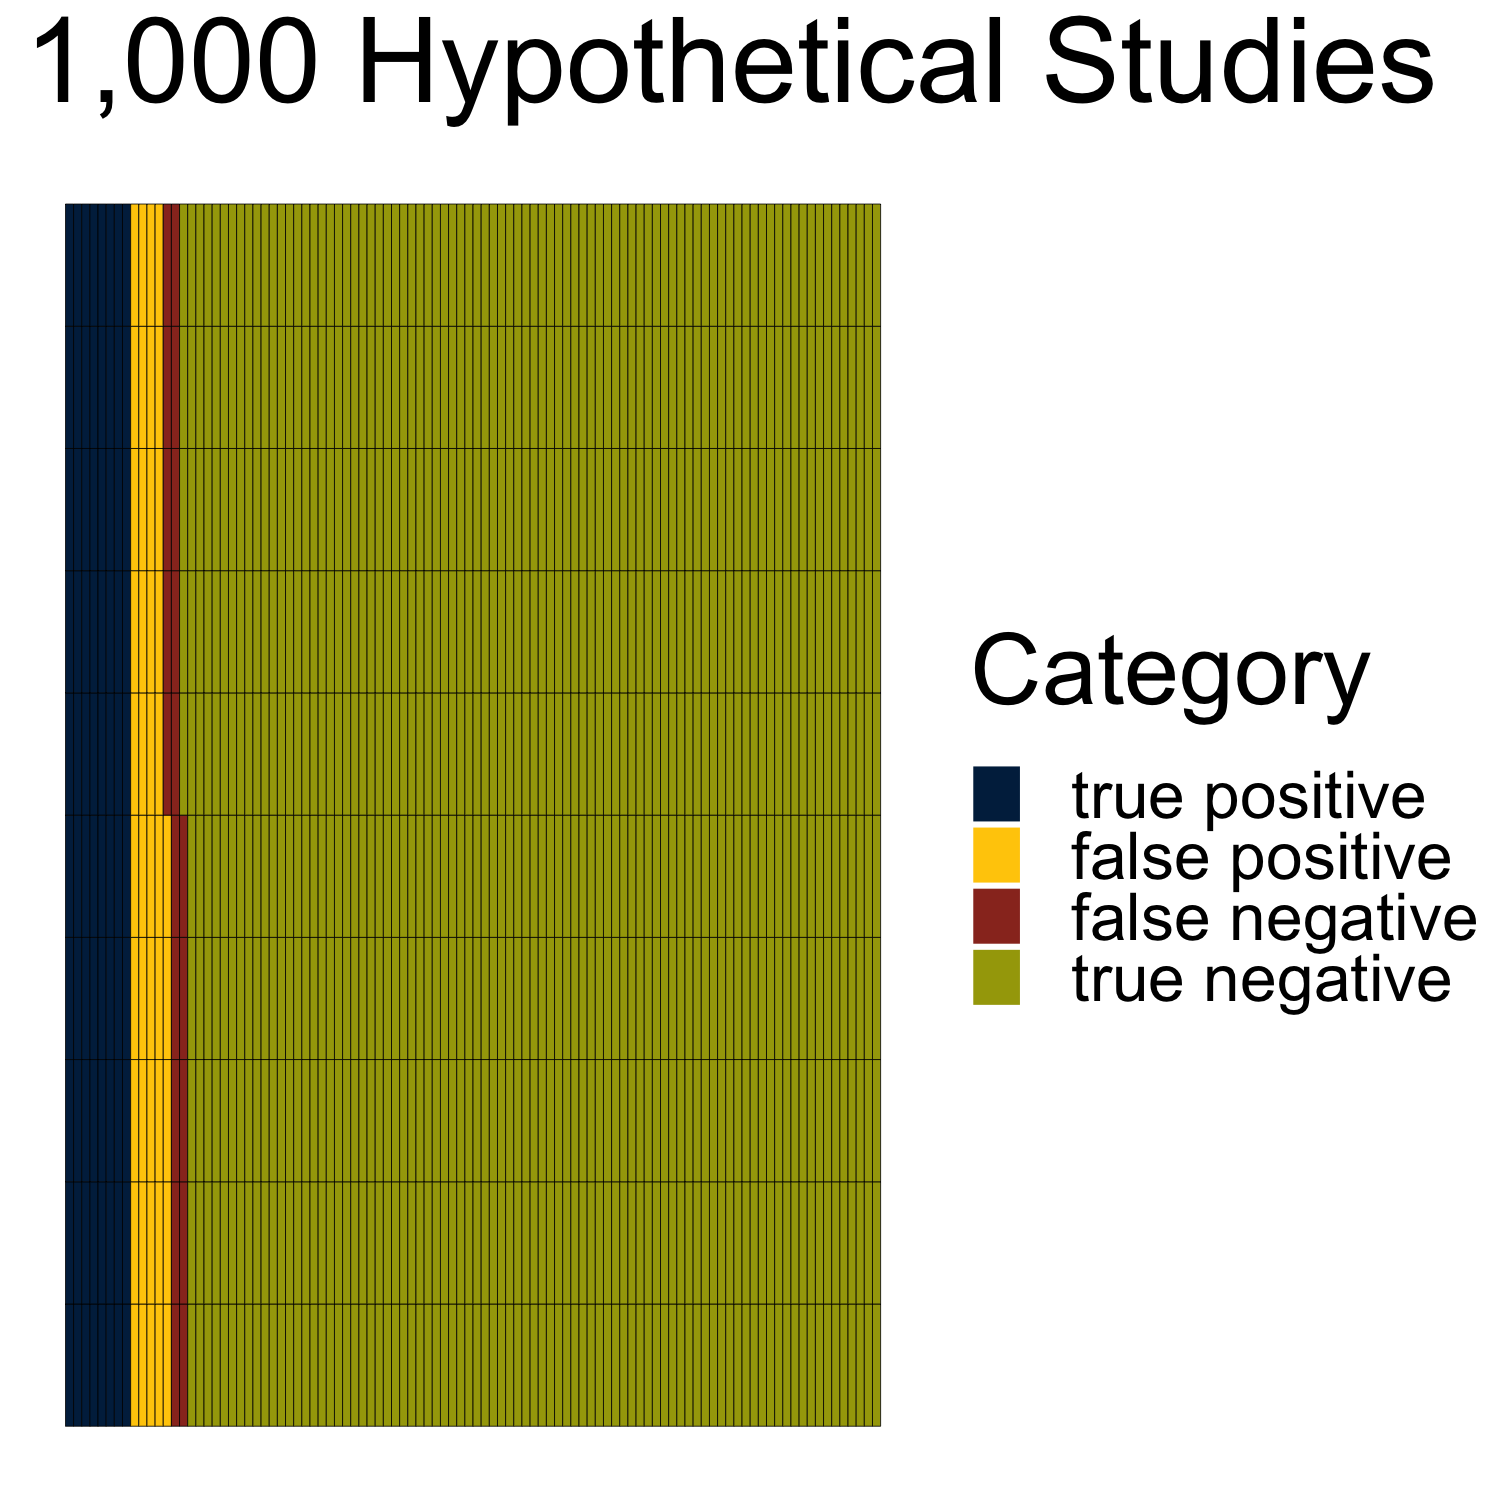
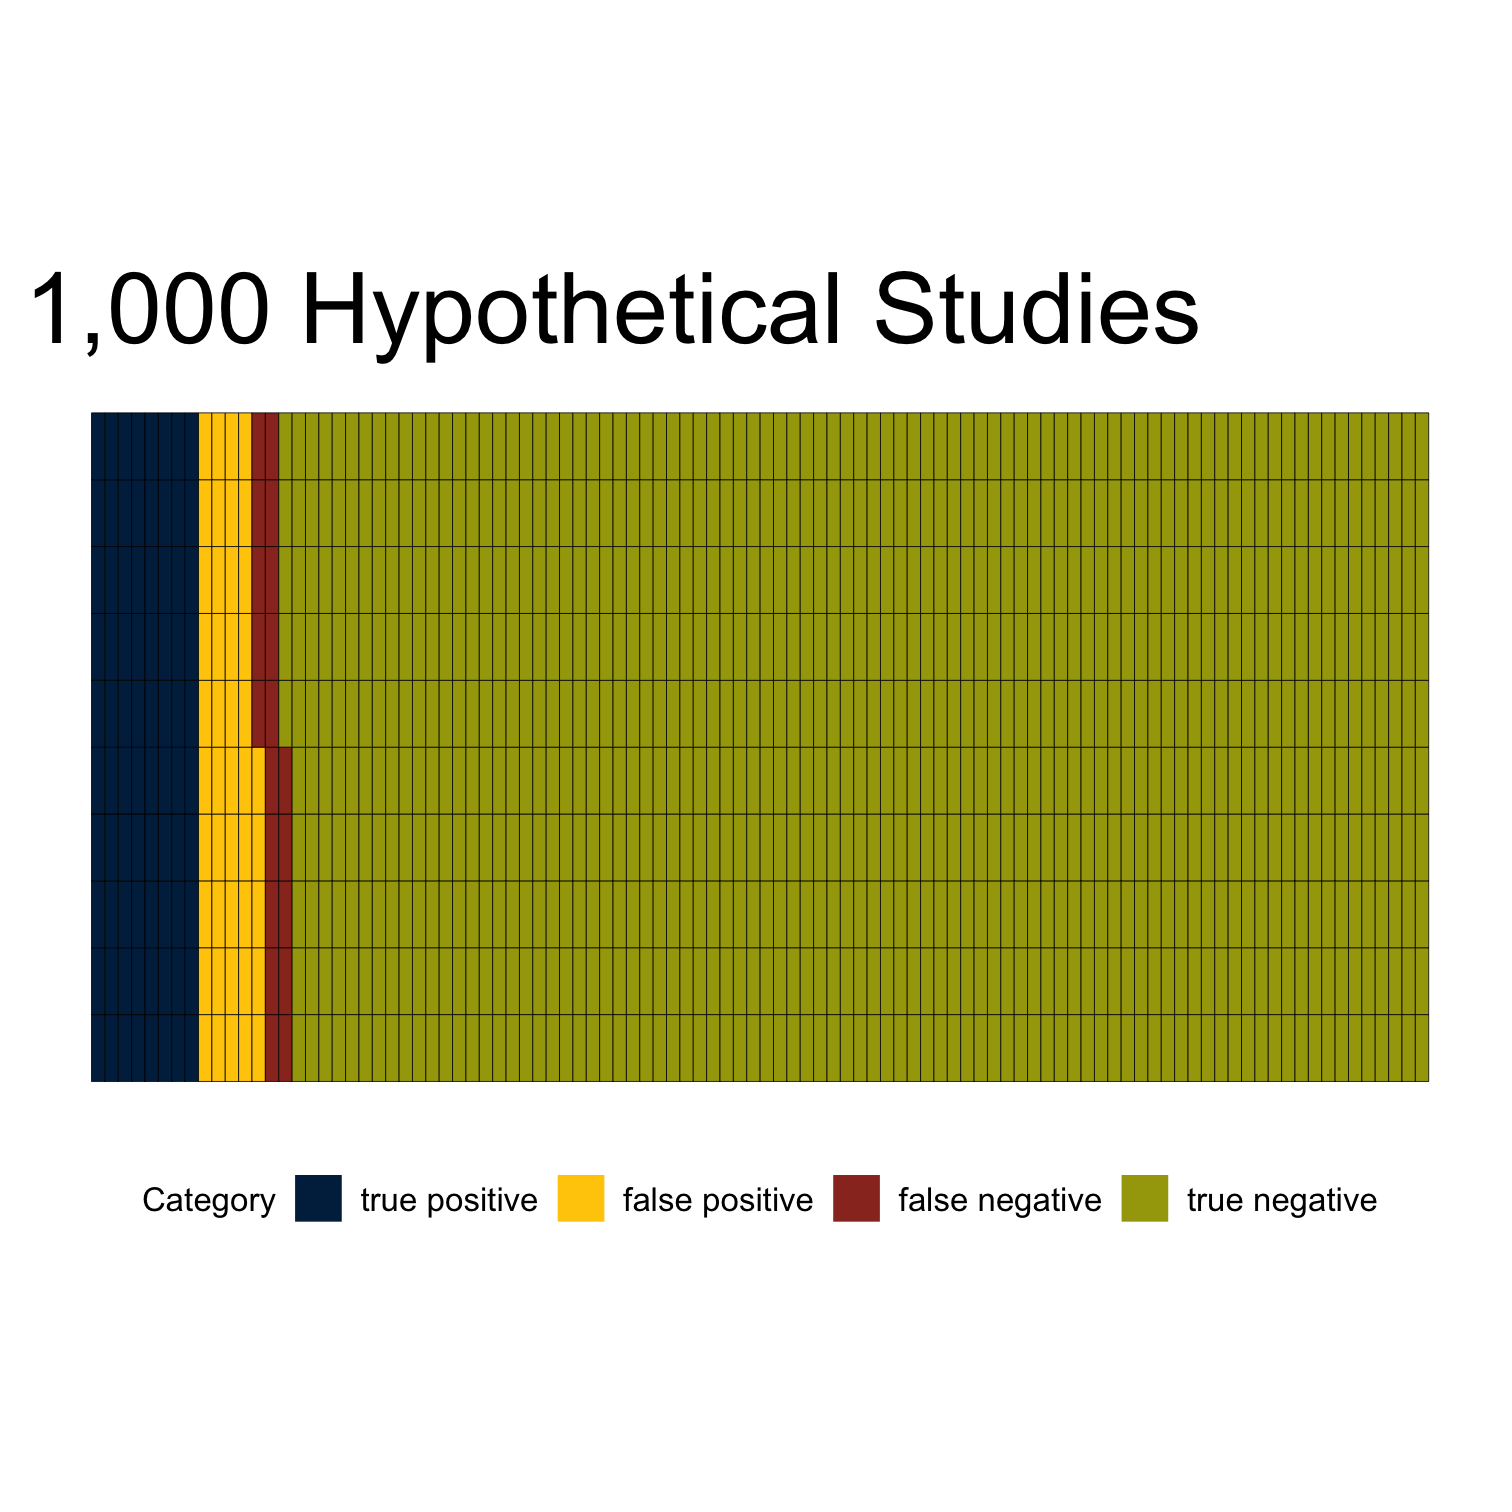
better waffle plot

diff --git a/Bayes-theorem/Bayes-theorem.html b/Bayes-theorem/Bayes-theorem.html
@@ -4,7 +4,7 @@
     <title>Bayes Theorem</title>
     <meta charset="utf-8" />
     <meta name="author" content="Andy Grogan-Kaylor" />
-    <meta name="date" content="2020-08-05" />
+    <meta name="date" content="2020-08-25" />
     <link href="libs/remark-css-0.0.1/default.css" rel="stylesheet" />
     <link href="libs/remark-css-0.0.1/default-fonts.css" rel="stylesheet" />
   </head>
@@ -16,7 +16,7 @@ class: center, middle, inverse, title-slide
 ## Applied To Data Analysis
 ### Andy Grogan-Kaylor
 ### University of Michigan
-### 2020-08-05
+### 2020-08-25
 
 ---
 
@@ -138,7 +138,7 @@ Consider an example using 1,000 hypothetical studies. We imagine that only 10% o
 ---
 # Visualization
 
-&lt;img src="Bayes-theorem_files/figure-html/unnamed-chunk-2-1.png" width="50%" /&gt;
+&lt;img src="Bayes-theorem_files/figure-html/unnamed-chunk-2-1.png" width="70%" /&gt;
 
 ---
 # Calculations
